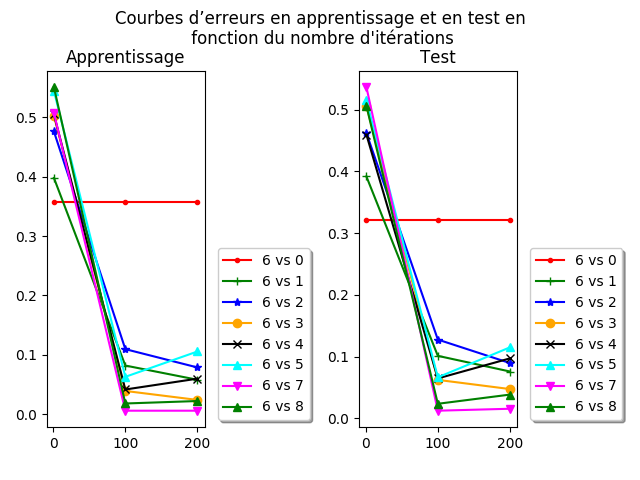
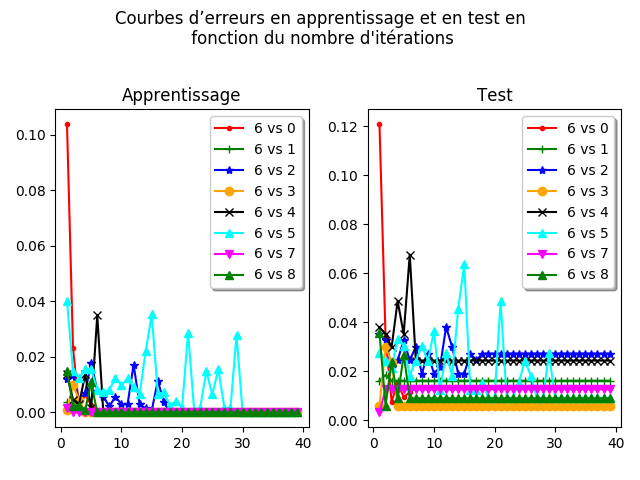
Room

diff --git a/TMEs/TME4-5/usps.py b/TMEs/TME4-5/usps.py
@@ -5,27 +5,28 @@ import matplotlib.pyplot as plt
 from perceptron import *
 from sklearn.linear_model import Perceptron
 
-################################################################################
+##########################################################################
 #-------------------------------- Données USPS --------------------------------#
-################################################################################
+##########################################################################
+
 
 def load_usps(fn):
     """ Lire un fichier USPS """
 
-    with open(fn,"r") as f:
+    with open(fn, "r") as f:
         f.readline()
-        data = [[float(x) for x in l.split()] for l in f if len(l.split())>2]
-    tmp=np.array(data)
+        data = [[float(x) for x in l.split()] for l in f if len(l.split()) > 2]
+    tmp = np.array(data)
 
     # Retourne la seconde colonne jusqu'à la dernière tmp[:,1:], ainsi que
     # la première colonne tmp[:,0]
-    return tmp[:,1:],tmp[:,0].astype(int)
+    return tmp[:, 1:], tmp[:, 0].astype(int)
 
 
 def show_usps(data):
     """ Fonction nous permettant de visualiser les doonées USPS """
 
-    plt.imshow(data.reshape((16,16)),interpolation="nearest",cmap="YlGnBu")
+    plt.imshow(data.reshape((16, 16)), interpolation="nearest", cmap="YlGnBu")
     plt.colorbar()
     plt.show()
 
@@ -40,7 +41,11 @@ def extract_usps(fichier, firstclass, secondclass):
     """
 
     pixels, numbers = load_usps(fichier)
-    indexes69 = np.hstack(np.where(numbers == i)[0] for i in (firstclass, secondclass))
+    indexes69 = np.hstack(
+        np.where(
+            numbers == i)[0] for i in (
+            firstclass,
+            secondclass))
     pixels69 = pixels[indexes69]
     numbers69 = numbers[indexes69]
     pixels69y = np.ones(pixels69.shape[0])
@@ -62,14 +67,15 @@ def test_clf_on_usps(clf, class1):
     """
 
     for class2 in range(10):
-        if class2 == 6: continue
+        if class2 == 6:
+            continue
         datax, datay = extract_usps("USPS_train.txt", class1, class2)
         dataTx, dataTy = extract_usps("USPS_test.txt", class1, class2)
 
         clf.fit(datax, datay)
 
-        print("Erreur : train %f, test %f\n"% (1 - clf.score(datax, datay),
-                                           1 - clf.score(dataTx, dataTy)))
+        print("Erreur : train %f, test %f\n" % (1 - clf.score(datax, datay),
+                                                1 - clf.score(dataTx, dataTy)))
 
 
 def weight_matrix(class1, class2, fig, perceptron_usps, ax=plt):
@@ -94,19 +100,19 @@ def weight_matrix(class1, class2, fig, perceptron_usps, ax=plt):
     ax.set_title("{} vs {}".format(class1, class2))
 
     try:
-        matrix = ax.imshow(perceptron_usps.w.reshape((16,16)),
-                           interpolation="nearest",cmap="YlGnBu")
+        matrix = ax.imshow(perceptron_usps.w.reshape((16, 16)),
+                           interpolation="nearest", cmap="YlGnBu")
         err_learning = perceptron_usps.score(datax, datay)
-        err_test = perceptron_usps.score(dataTx,dataTy)
-        print("Erreur : train %f, test %f\n"% (err_learning,
-                                               err_test))
+        err_test = perceptron_usps.score(dataTx, dataTy)
+        print("Erreur : train %f, test %f\n" % (err_learning,
+                                                err_test))
     except AttributeError:
         err_learning = 1 - perceptron_usps.score(datax, datay)
-        err_test = 1 - perceptron_usps.score(dataTx,dataTy)
-        matrix = ax.imshow(perceptron_usps.coef_.reshape((16,16)),
-                           interpolation="nearest",cmap="YlGnBu")
-        print("Erreur : train %f, test %f\n"% (err_learning,
-                                               err_test))
+        err_test = 1 - perceptron_usps.score(dataTx, dataTy)
+        matrix = ax.imshow(perceptron_usps.coef_.reshape((16, 16)),
+                           interpolation="nearest", cmap="YlGnBu")
+        print("Erreur : train %f, test %f\n" % (err_learning,
+                                                err_test))
 
     fig.colorbar(matrix, ax=ax)
 
@@ -131,7 +137,8 @@ def matrix_one_vs_all(class1, perceptron_usps):
     class2 = 0
     for i in range(nrows):
         for j in range(ncols):
-            if class2 == class1: class2 += 1
+            if class2 == class1:
+                class2 += 1
             weight_matrix(6, class2, fig, perceptron_usps, ax=ax[i, j])
             class2 += 1
 
@@ -150,18 +157,19 @@ def error_curves(class1):
 
     # Now, let's plot
     cols, marks = ["red", "green", "blue", "orange", "black", "cyan", "yellow",
-                   "magenta", "green"],[".","+","*","o","x","^", ',', 'v', '^']
+                   "magenta", "green"], [".", "+", "*", "o", "x", "^", ',', 'v', '^']
 
-    fig , (ax1, ax2) = plt.subplots(ncols=2, sharex=True)
-    plt.suptitle("Courbes d’erreurs en apprentissage et en test en\n fonction du "
-                 "nombre d'itérations")
-
+    fig, (ax1, ax2) = plt.subplots(ncols=2, sharex=True)
+    plt.suptitle(
+        "Courbes d’erreurs en apprentissage et en test en\n fonction du "
+        "nombre d'itérations")
 
     ax1.set_title("Apprentissage")
     ax2.set_title("Test")
 
     for i in range(9):
-        if i == class1: continue
+        if i == class1:
+            continue
         # Extraction des données usps des classes passées
         datax, datay = extract_usps("USPS_train.txt", class1, i)
         dataTx, dataTy = extract_usps("USPS_test.txt", class1, i)
@@ -173,7 +181,7 @@ def error_curves(class1):
             # clf = Perceptron(loss=hinge,loss_g=hinge_g,max_iter=iter,
             #                              eps=0.1,kernel=None)
             clf = Perceptron(max_iter=iter, n_jobs=-1)
-                                         
+
             clf.fit(datax, datay)
             err_learning.append(1 - clf.score(datax, datay))
             err_test.append(1 - clf.score(dataTx, dataTy))
@@ -183,7 +191,7 @@ def error_curves(class1):
         ax2.plot(x_iter, err_test, c=cols[i], marker=marks[i],
                  label='{} vs {}'.format(class1, i))
 
-    ax1.legend(loc='upper right', 
+    ax1.legend(loc='upper right',
                ncol=1, fancybox=True, shadow=True)
     ax2.legend(loc='upper right',
                ncol=1, fancybox=True, shadow=True)

diff --git a/TMEs/TME1/TME1.py b/TMEs/TME1/TME1.py
@@ -1,33 +1,36 @@
 # -*- coding: utf-8 -*-
 
 import numpy as np
-#import matplotlib.pyplot as plt
+import matplotlib.pyplot as plt
 import collections
 import pickle as pkl
 import pydot
 from math import *
 from decisiontree import *
-# data : tableau (films,features), id2titles : dictionnaire id -> titre film, fields : id
+# data : tableau (films,features), id2titles : dictionnaire id -> titre
+# film, fields : id
 
 with open('imdb_extrait.pkl', 'rb') as f:
     [data, id2titles, fields] = pkl.load(f, encoding='latin1')
 # la derniere colonne est le vote
 
 
-datax=data[:,:32]
-datay=np.array([1 if x[33]>6.5 else -1 for x in data])
+datax = data[:, :32]
+datay = np.array([1 if x[33] > 6.5 else -1 for x in data])
 
 print(fields, len(datay))
-print(data[:,:33])
+print(data[:, :33])
+
 
 def attributes():
     entropie, entropie_cond, dif = [], [], []
     for num in fields.keys():
-        entropie.append(entropy(data[:,num]))
-        entropie_cond.append(entropy_cond([data[:,num], datay]))
+        entropie.append(entropy(data[:, num]))
+        entropie_cond.append(entropy_cond([data[:, num], datay]))
         dif.append(entropie[num] - entropie_cond[num])
 
     return (entropie, entropie_cond, dif)
+
 
 def affichage():
     """Affiche l'attribut, l'entropie, l'entropie conditionnel ainsi que
@@ -35,46 +38,98 @@ def affichage():
     ent, entc, dif = attributes()
     i = 0
     for e, ec, d in zip(ent, entc, dif):
-        print("attr: {}, {}, entro: {}, entro_cond: {}, dif: {}".format(i, fields[i], e, ec, d))
+        print(
+            "attr: {}, {}, entro: {}, entro_cond: {}, dif: {}".format(
+                i,
+                fields[i],
+                e,
+                ec,
+                d))
         i += 1
 
-def partionnement(app):
+
+def partitionnement(datax, app):
     """
     Cette fonction prend en parametre le pourcentage de la base d'apprentissage
     et puis renvoie un liste de tuple contenant une base d'exemples d'apprentissage
     de ce pourcentage et une base d'exemples de test pour le reste(1-app).
     """
-    nb_ex_app = app * len(datax)
-    print(nb_ex_app)
-    data_app, datay_app = datax[:nb_ex_app], datay[:nb_ex_app]
-    data_test, datay_test = datax[nb_ex_app:], datay[:nb_ex_app]
+
+    indices = np.arange(len(datax))
+    np.random.shuffle(indices)
+
+    nb_ex_app = int(len(datax) * app)
+
+    inds_app = indices[:nb_ex_app]
+    inds_test = indices[:nb_ex_app]
+
+    data_app, datay_app = datax[inds_app], datay[inds_app]
+    data_test, datay_test = datax[inds_test], datay[inds_test]
 
     return [data_app, datay_app], [data_test, datay_test]
 
+
+def plot_error_curves(datax):
+
+    fig, ax = plt.subplots(ncols=3, sharex=True)
+
+    for i, p in enumerate([0.2, 0.5, 0.8]):
+        app, test = partitionnement(datax, p)
+        data_app, datay_app = app
+        data_test, datay_test = test
+
+        dt = DecisionTree()
+
+        err_learning, err_test = [], []
+        profondeurs = range(0, 30, 2)
+        for p in profondeurs:
+            dt.max_depth = p
+            dt.fit(data_app, datay_app)
+            err_learning.append(1 - dt.score(data_app, datay_app))
+            err_test.append(1 - dt.score(data_test, datay_test))
+
+        print(err_learning)
+        print(err_test)
+
+        ax[i].plot(
+            profondeurs,
+            err_learning,
+            c='magenta',
+            label="err_learning")
+        ax[i].plot(profondeurs, err_test, c='red', label="err_test")
+        ax[i].legend()
+
+    plt.suptitle("Courbe d'erreurs en apprentissage et en test \n"
+                 "en fonction de la profondeur de l'arbre")
+    plt.show()
 
 ###############################################################################
 #----------------------------------Main---------------------------------------#
 ###############################################################################
 
+
 affichage()
 
 dt = DecisionTree()
-dt.max_depth = 3                        # Taille de l'arbre
+dt.max_depth = 1                        # Taille de l'arbre
 dt.min_samples_split = 2
+
+# Apprentissage
 dt.fit(datax, datay)
-dt.predict(datax[:5,:])
+
+# Prédiction
+dt.predict(datax[:100, :])
+
+
 print("\nscore:", dt.score(datax, datay), "\n")
-dt.to_pdf("test_tree{}.pdf".format(dt.max_depth), fields) # Pour dessiner l'arbre dans un fichier pdf
+
+# Pour dessiner l'arbre dans un fichier pdf
+
+#dt.to_pdf("test_tree2{}.pdf".format(dt.max_depth), fields)
 print(str(dt))
-#print(_)
+# print(_)
 
 
-# app, test = partionnement(0.8)
-# data_app, datay_app = app
-# data_test, datay_test = test
+# Partionnement, Sur et sous apprentissage
 
-# dtp = DecisionTree()
-# dtp.max_depth = 5
-# dt.min_samples_split = 2
-# dt.fit(data_app, datay_app)
-# dt.predict()
+plot_error_curves(datax)

diff --git a/TMEs/TME6/tme6_etu.py b/TMEs/TME6/tme6_etu.py
@@ -2,6 +2,7 @@
 import sys
 sys.path.insert(0, '../TME4-5')
 
+import numpy as np
 import matplotlib.pyplot as plt
 from sklearn import model_selection, multiclass, svm
 from sklearn.linear_model import Perceptron
@@ -319,7 +320,7 @@ def main():
 
     # ------------------------------- Multi Class
 
-    multiClass(trainx, trainy, testx, testy)
+    print(np.unique(testuy))
     multiClass(trainux, trainuy, testux, testuy)
 
     # ------------------------------- String Kernel
